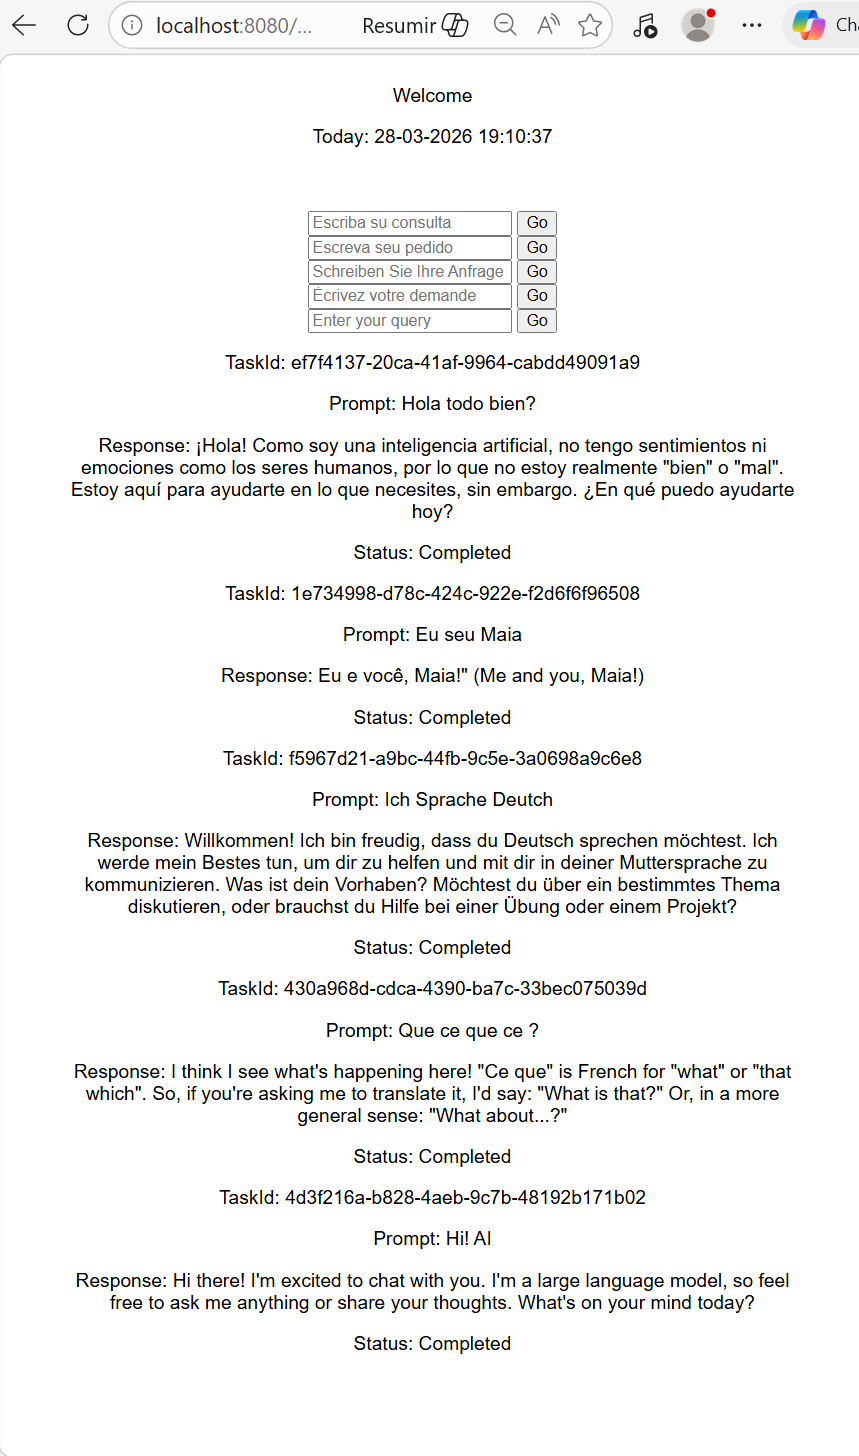
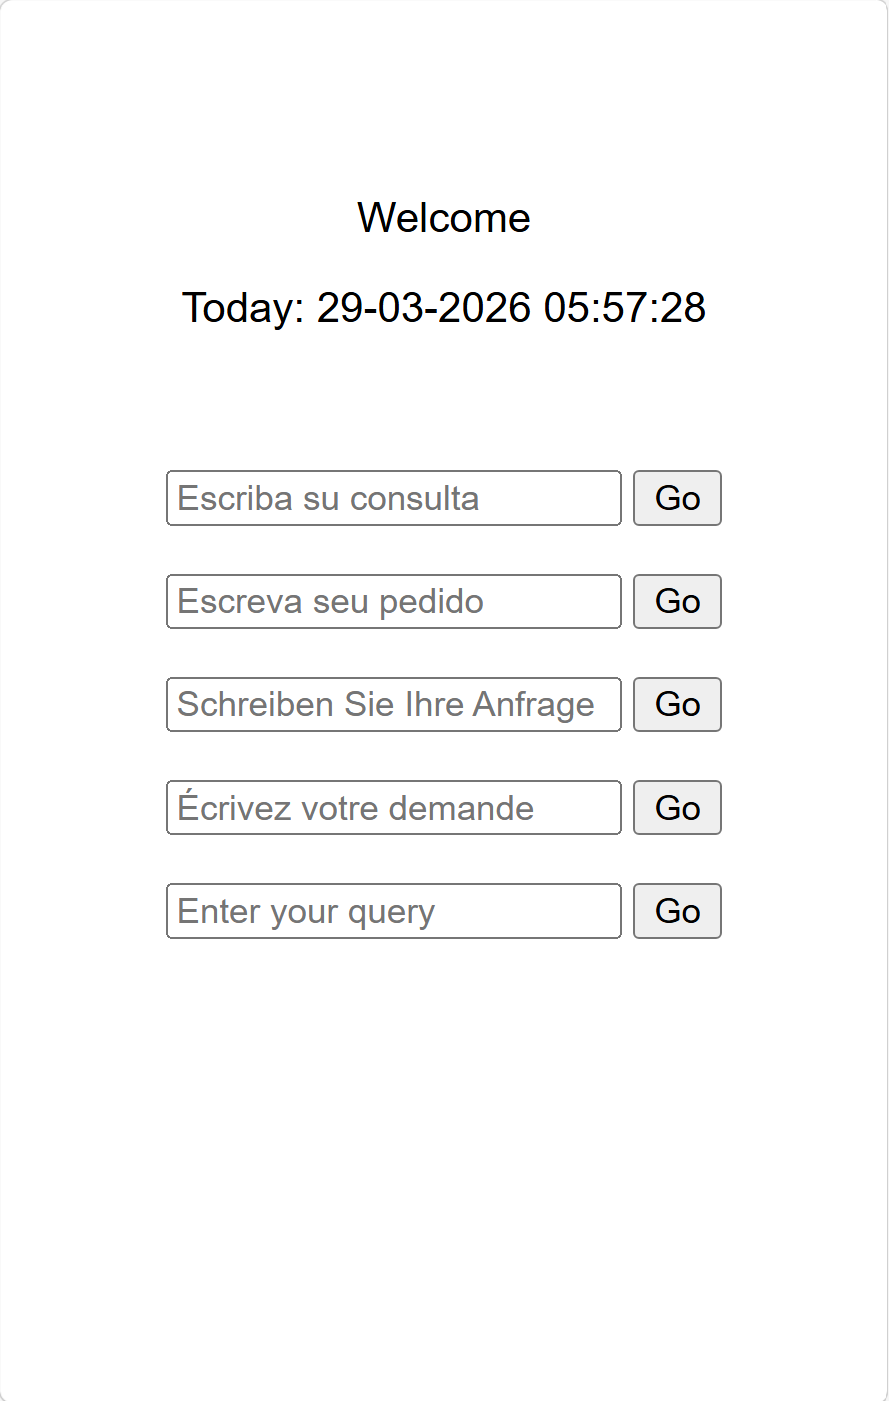
added

diff --git a/java-llama-spring-boot/app/ollama/src/main/resources/templates/public/home.html b/java-llama-spring-boot/app/ollama/src/main/resources/templates/public/home.html
@@ -22,6 +22,7 @@
     <input type="hidden" name="editPromptDT" value="">
     <input type="hidden" name="editPromptEN" value="">
 </form>
+<br/>
 <form method="POST">
     <input type="text" name="editPromptPT" value="" placeholder="Escreva seu pedido" />
     <input type="submit" value="Go" />
@@ -30,6 +31,7 @@
     <input type="hidden" name="editPromptDT" value="">
     <input type="hidden" name="editPromptEN" value="">
 </form>
+<br/>
 <form method="POST">
     <input type="text" name="editPromptDT" value="" placeholder="Schreiben Sie Ihre Anfrage" />
     <input type="submit" value="Go" />
@@ -38,6 +40,7 @@
     <input type="hidden" name="editPromptFR" value="">
     <input type="hidden" name="editPromptEN" value="">
 </form>
+<br/>
 <form method="POST">
     <input type="text" name="editPromptFR" value="" placeholder="Écrivez votre demande" />
     <input type="submit" value="Go" />
@@ -46,6 +49,7 @@
     <input type="hidden" name="editPromptDT" value="">
     <input type="hidden" name="editPromptEN" value="">
 </form>
+<br/>
 <form method="POST">
     <input type="text" name="editPromptEN" value="" placeholder="Enter your query" />
     <input type="submit" value="Go" />
@@ -55,8 +59,11 @@
     <input type="hidden" name="editPromptDT" value="">
 </form>
 
+<br/>
+<br/>
+
 <section th:each="item: ${data}">
-    <p>TaskId: [[${item.taskId}]]</p>
+    <!-- <p>TaskId: [[${item.taskId}]]</p> -->
     <p th:if="${not #strings.isEmpty(item.prompt)}">Prompt: [[${item.prompt}]]</p>
     <p th:if="${not #strings.isEmpty(item.response)}">Response: [[${item.response}]]</p>
     <p th:if="${not #strings.isEmpty(item.error)}">Error: [[${item.error}]]</p>
@@ -65,7 +72,6 @@
 
 <br/>
 <br/>
-
 </body>
 </html>
 

diff --git a/java-llama-spring-boot/app/ollama/src/main/java/com/ollama/ollama/utils/OllamaReader.java b/java-llama-spring-boot/app/ollama/src/main/java/com/ollama/ollama/utils/OllamaReader.java
@@ -33,8 +33,13 @@ public class OllamaReader {
         String commandPs = String.format(
                 "\"[Console]::OutputEncoding=[System.Text.Encoding]::UTF8; powershell -File '%s' -UserPrompt '%s'\"",
                 psTemplateScript,
-                prompt
+                prompt.replace(
+                        "'",
+                        "''"
+                )
         );
+
+        System.out.printf("%s\n\n", commandPs);
 
         ProcessBuilder pbuilder = new ProcessBuilder(
                 "powershell",

diff --git a/java-llama-spring-boot/app/ollama/src/main/java/com/ollama/ollama/controller/TrackedEventController.java b/java-llama-spring-boot/app/ollama/src/main/java/com/ollama/ollama/controller/TrackedEventController.java
@@ -122,6 +122,7 @@ public class TrackedEventController {
         System.out.println();
         System.out.printf("editPromptFR: %s", editPromptFR);
         System.out.println();
+        System.out.println();
 
         DateTimeFormatter formatter = DateTimeFormatter.ofPattern("dd-MM-yyyy HH:mm:ss");
         this.model.addAttribute("currentDate", LocalDateTime.now().format(formatter));
